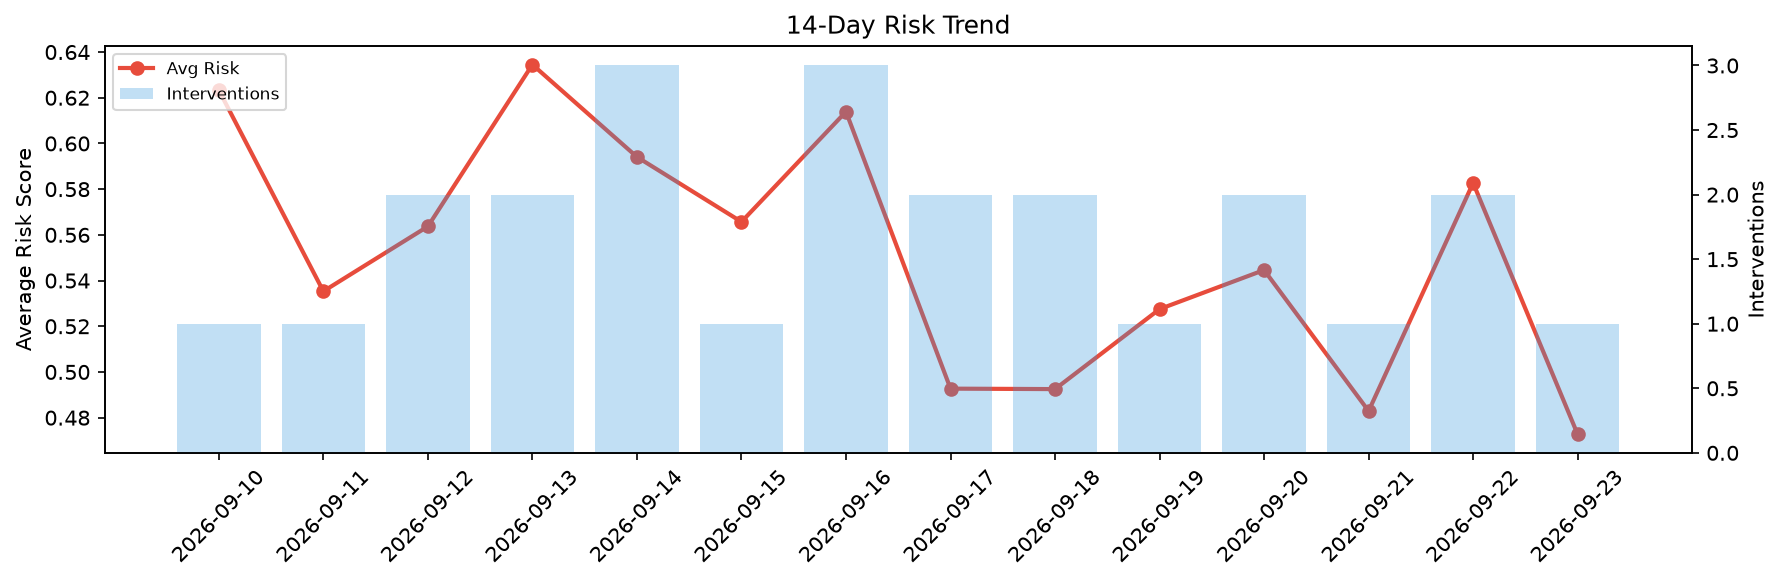
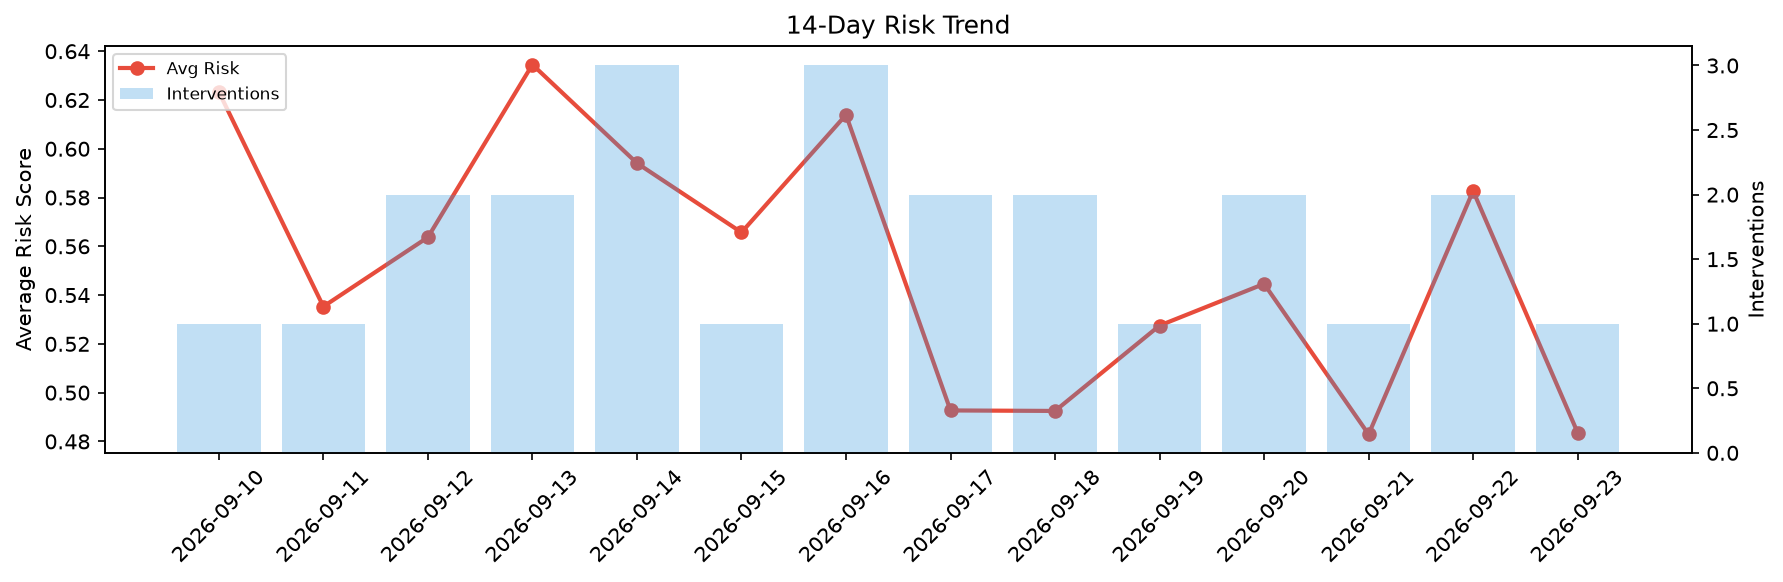
agent-improvement: daily cycle 2026-09-23T18:24

diff --git a/logs/2026-09-23.md b/logs/2026-09-23.md
@@ -1,6 +1,6 @@
 # Agent Improvement Report — 2026-09-23
 
-**Cycle ID:** `c43e5005` | **Avg Risk:** 0.4727 | **Interventions:** 1/4
+**Cycle ID:** `7ee34b88` | **Avg Risk:** 0.4836 | **Interventions:** 1/4
 
 ![Dashboard](2026-09-23_dashboard.png)
 
@@ -10,18 +10,18 @@
 
 | Domain | Risk Score | Decision | Alerts |
 |--------|-----------|----------|--------|
-| code_review | 0.3591 | monitor | none |
-| incident_response | 0.3454 | monitor | none |
-| data_pipeline | 0.6486 | intervene | none |
-| deployment | 0.5375 | monitor | rollback_rate |
+| code_review | 0.2416 | monitor | none |
+| incident_response | 0.4554 | monitor | mttr |
+| data_pipeline | 0.7188 | intervene | volume_anomaly |
+| deployment | 0.5186 | monitor | none |
 
 ## Delta vs Yesterday
 
 | Domain | Today | Yesterday | Change |
 |--------|-------|-----------|--------|
-| code_review | 0.3591 | 0.6261 | 📉 -42.6% |
-| incident_response | 0.3454 | 0.4691 | 📉 -26.4% |
-| data_pipeline | 0.6486 | 0.5133 | 📈 26.4% |
-| deployment | 0.5375 | 0.7223 | 📉 -25.6% |
+| code_review | 0.2416 | 0.6261 | 📉 -61.4% |
+| incident_response | 0.4554 | 0.4691 | 📉 -2.9% |
+| data_pipeline | 0.7188 | 0.5133 | 📈 40.0% |
+| deployment | 0.5186 | 0.7223 | 📉 -28.2% |
 
 **Refinement:** `{'adjustment': 'tighten_thresholds', 'trend': 'degrading', 'window': 4}`
